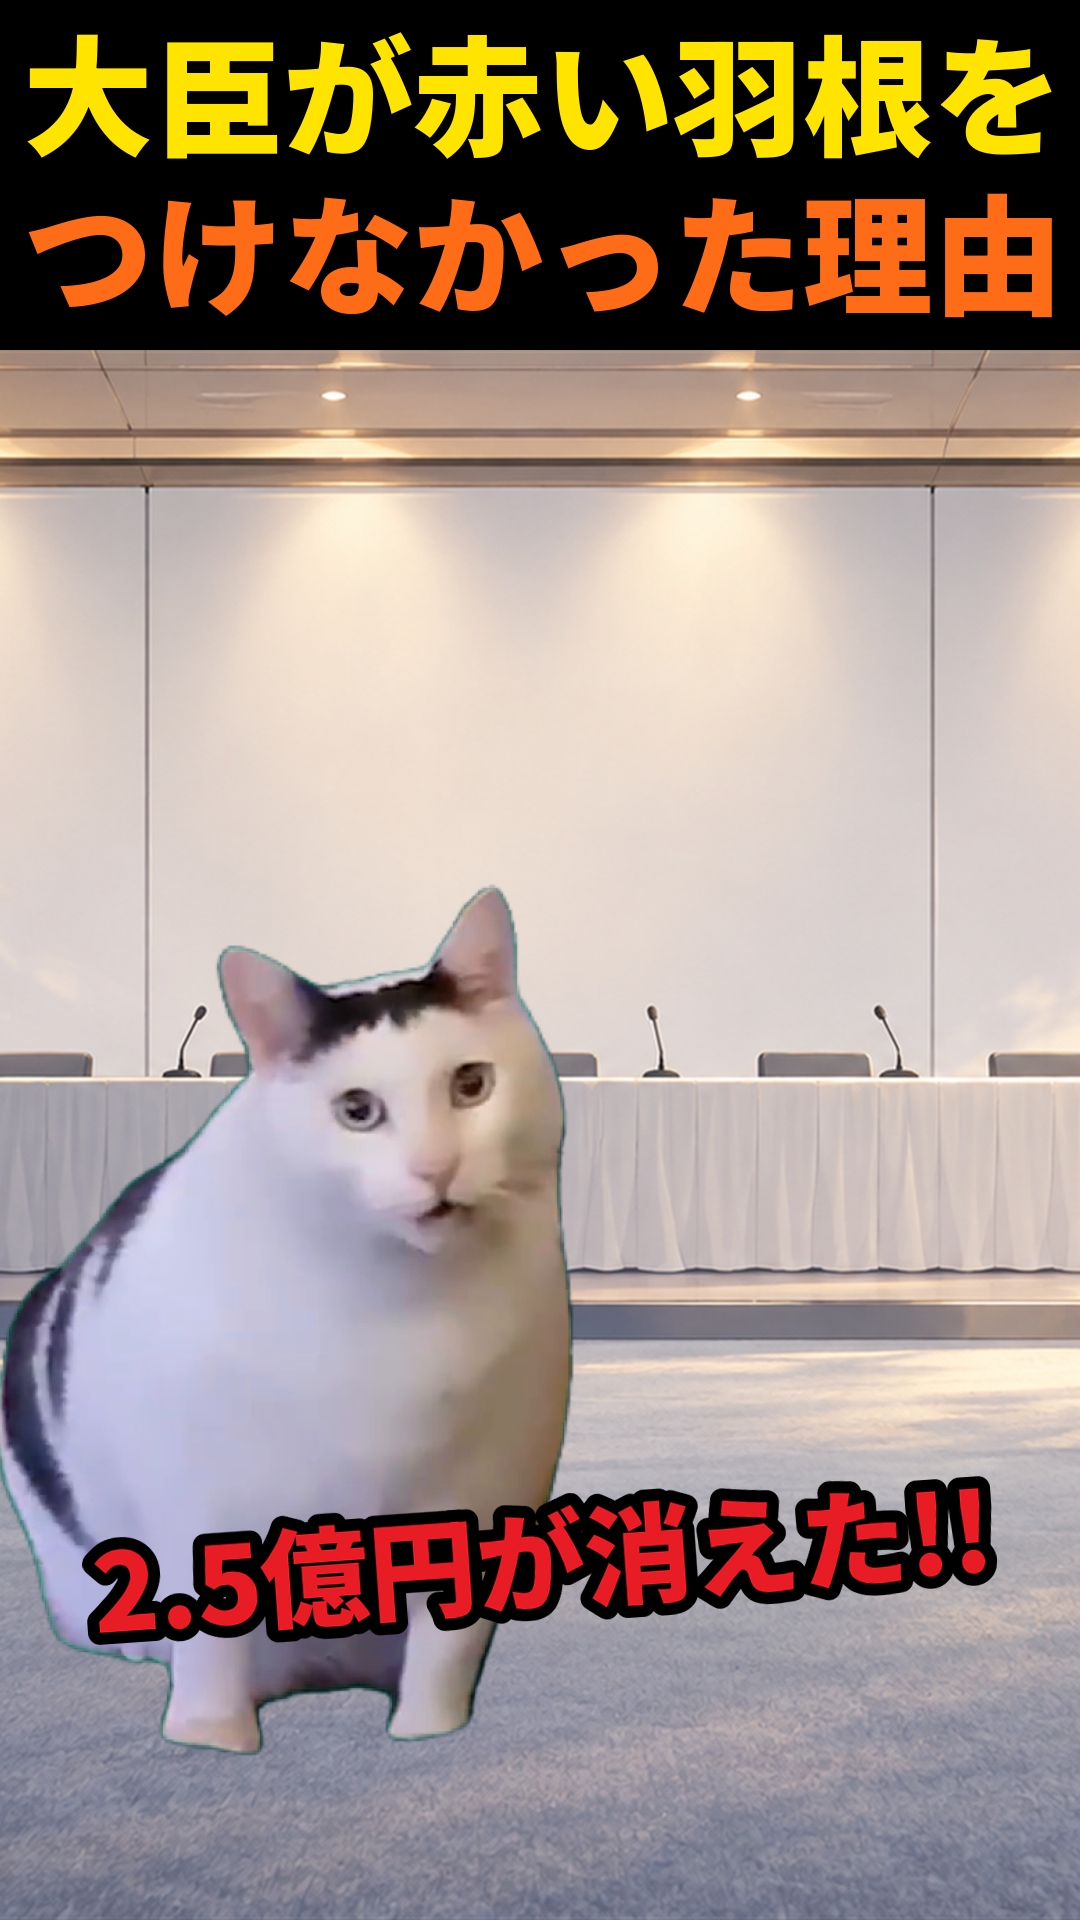
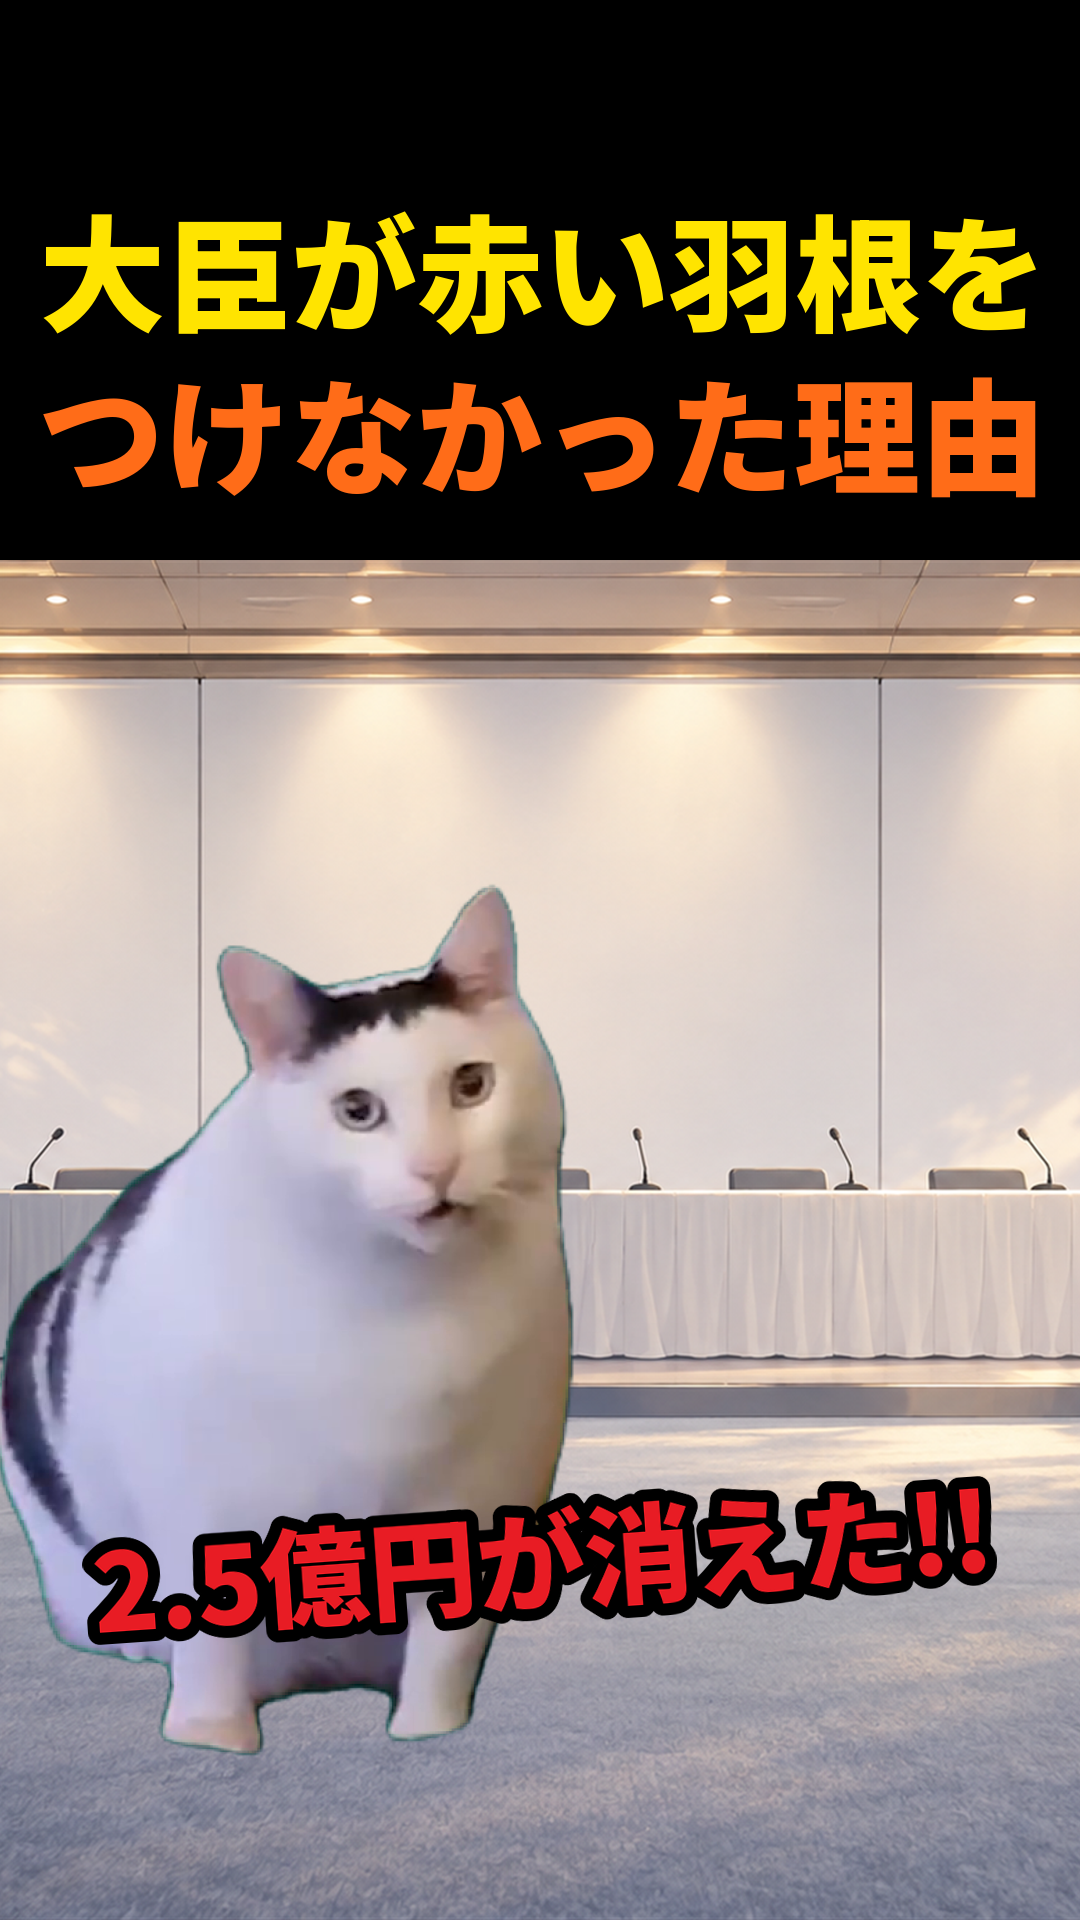
ショートのサムネ：黒い帯を元の高さに戻す（上を余らせる・ユーザー指定 10/13）
Claude-Session: https://claude.ai/code/session_011g9CsrfFD5YswfNSvNDW39

diff --git a/catmeme/make_thumb_short_ref.py b/catmeme/make_thumb_short_ref.py
@@ -1,7 +1,7 @@
 """ショートのサムネ：参考フォーマット（ユーザー指定 10/13）をマネして作る。縦 1080x1920。
 
 参考3枚（「外国人が思わず撮影！日本の子供に衝撃！」「整備工場にトヨタが来た時の海外の反応」「帰国直後に衝撃 日本との違い」）の作り
-- 上：黒い帯（2行の文字の高さぴったり・上に余白を作らない）に2行の極太ゴシック。1行目と2行目で色を変える（赤×黄／黄×オレンジ／黄×ピンク）。行いっぱいの大きさ
+- 上：黒い帯に2行の極太ゴシック。1行目と2行目で色を変える（赤×黄／黄×オレンジ／黄×ピンク）。行いっぱいの大きさ
 - 真ん中〜下：写真を全面に（帯のすぐ下から一番下まで）。猫ミームは写真の中に入れ込む
 - 写真の中ほど〜下に、ひとことテロップを1つ（3種類）
     a) 青い文字＋白い縁を、半透明の白いぼかし帯にのせる（「日本の日常の光景。」）
@@ -39,9 +39,10 @@ def bg_path(n):
     raise FileNotFoundError(n)
 
 
-def photo(name, zoom=1.0, cx=0.5, h=SH - BAND_H):
+def photo(name, zoom=1.0, cx=0.5):
     """背景を帯の下の全面に敷く（縦に合わせて拡大し、cx の位置で切り出す）。"""
     im = Image.open(bg_path(name)).convert("RGB")
+    h = SH - BAND_H
     k = h / im.height * zoom
     im = im.resize((int(im.width * k), int(im.height * k)), Image.LANCZOS)
     x0 = int((im.width - SW) * cx)
@@ -85,20 +86,19 @@ def caption(text, style):
 
 def make(out_name, line1, col1, line2, col2, bg, cats, cap, cap_style, cap_y=1220, credit="", zoom=1.0, cx=0.5,
          stroke1=BLACK):
-    # 上の黒い帯：参考どおり、2行の文字の高さぴったり（上下に余りを作らない）。文字は横幅の約95%（10/13）
-    t1 = heavy(line1, 190, col1, stroke1, 6, w=SW - 20)
-    t2 = heavy(line2, 190, col2, BLACK, 6, w=SW - 20)
-    pad, gap = 26, 22
-    band_h = pad + t1.height + gap + t2.height + pad
     img = Image.new("RGB", (SW, SH), BLACK)
-    ph = photo(bg, zoom, cx, h=SH - band_h)
-    img.paste(ph, (0, band_h))
+    img.paste(photo(bg, zoom, cx), (0, BAND_H))
     out = np.asarray(img)[:, :, ::-1].astype(np.float32) / 255
     for name, t, x, bottom, h, flip in cats:   # 猫ミームを写真の中に入れ込む
         H.cat(out, name, t, x, bottom, h, flip=flip)
     pil = Image.fromarray((np.clip(out, 0, 1) * 255).astype(np.uint8)[:, :, ::-1]).convert("RGBA")
-    pil.alpha_composite(t1, ((SW - t1.width) // 2, pad))
-    pil.alpha_composite(t2, ((SW - t2.width) // 2, pad + t1.height + gap))
+    # 上の黒い帯（2行）
+    t1 = heavy(line1, 190, col1, stroke1, 6)   # 参考どおり1行8〜10文字で、横いっぱいの大きさ
+    t2 = heavy(line2, 190, col2, BLACK, 6)
+    gap = 30
+    top = 150 + (BAND_H - 150 - t1.height - t2.height - gap) // 2
+    pil.alpha_composite(t1, ((SW - t1.width) // 2, top))
+    pil.alpha_composite(t2, ((SW - t2.width) // 2, top + t1.height + gap))
     # ひとことテロップ
     c, _ = caption(cap, cap_style)
     pil.alpha_composite(c, ((SW - c.width) // 2, int(cap_y - c.height / 2)))
